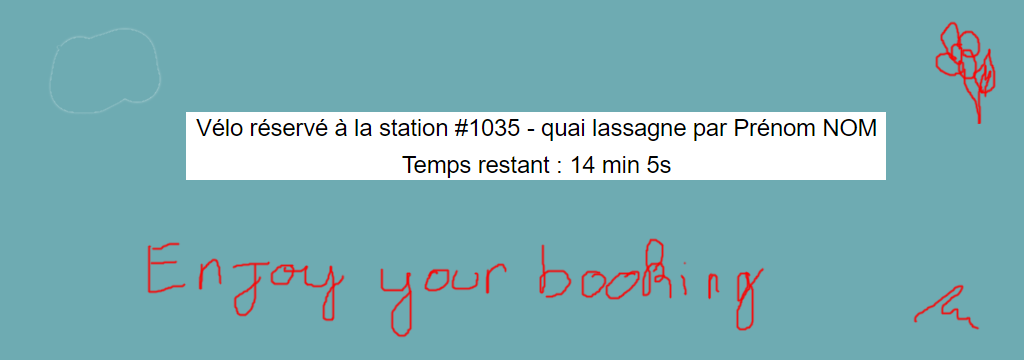
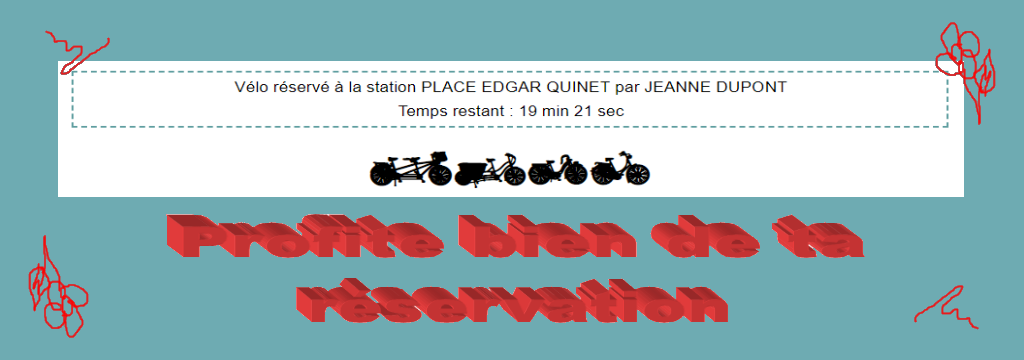
push final

diff --git a/js/MapBikeJCDAndForm.js b/js/MapBikeJCDAndForm.js
@@ -46,12 +46,12 @@ var JCD = {
             '            <p id="nbBikesP">\n' +
             '                \n' +
             '            </p>\n' +
-            '            <p class="input">\n' +
-            '                <label for="name">Nom :</label>\n' +
+            '            <p class="inputP" id="inputData1">\n' +
+            '                <label for="name">Nom&nbsp:</label>\n' +
             '                <input type="text" name="name" id="nameInput" placeholder="nom" value="nom" autofocus required>\n' +
             '            </p>\n' +
-            '            <p class="input">\n' +
-            '                <label for="firstName">Prénom :</label>\n' +
+            '            <p class="inputP" id="inputData2">\n' +
+            '                <label for="firstName">Prénom&nbsp:</label>\n' +
             '                <input type="text" name="firstName" id="firstNameInput" placeholder="prénom" value="prénom" required>\n' +
             '            </p>\n' +
             '            <input id="submitForm" type="submit" value="Réserver" />\n' +
@@ -61,7 +61,6 @@ var JCD = {
             '    </div>';
         jcdThis.createButtonConfirm();
     },
-
     createButtonConfirm: function () {
         var buttonConfirm = document.createElement("input");
         buttonConfirm.type = "submit";
@@ -148,25 +147,38 @@ var JCD = {
             jcdThis.divForm.style.display = "block";
         jcdThis.first = true;
         jcdThis.currentStation = station;
-        statusP.textContent = station.status;
+        statusP.textContent = station.status === "OPEN" ? "STATION OUVERTE": "STATION FERMEE";
         statusP.style.color = station.status === "OPEN" ? "green" : "red";
         nameP.textContent = station.name;
         addressP.textContent = "Adresse : " + station.address;
-        nbStandsP.textContent = station.nbBikesStands > 1 ? station.nbBikesStands + " places" : station.nbBikesStands + "place" ;
+        nbStandsP.textContent = station.nbBikesStands > 1 ? "Capacité : " + station.nbBikesStands + " places" : "Capacité : " + station.nbBikesStands + "place" ;
         nbBikesP.textContent = station.availableBikes > 1 ? station.availableBikes + " vélos disponibles" : station.availableBikes + " vélo disponible";
         nbBikesP.style.color = station.availableBikes > 0 ? "green" : "orange";
         jcdThis.resizeWindow();
+        if (jcdThis.currentStation.status === "OPEN" && jcdThis.currentStation.availableBikes > 0) {
+            submitForm.style.display ="block";
+            inputData1.style.display = "block";
+            inputData2.style.display = "block";
+        }
+        else {
+            nbBikesP.textContent += "\nréservation impossible :'(";
+            submitForm.style.display = "none";
+            inputData1.style.display = "none";
+            inputData2.style.display = "none";
+            jcdThis.canvas.canvasElt.style.display = "none";
+            buttonConfirm.style.display = "none";
+            submitForm.style.display = "none";
+        }
     },
     clickOnSubmit: function (event) {
         event.preventDefault();
-        console.log("CLISKC CLISCK = " + this.id + "!!!!!");
         if (jcdThis.currentStation.status === "OPEN" && jcdThis.currentStation.availableBikes > 0) {
             jcdThis.canvas.canvasElt.style.display = "block";
             buttonConfirm.style.display = "block";
             submitForm.style.display = "none";
         }
         else {
-            alert("Réservation à cette station impossible, please choose an other\nSTATUS = " + jcdThis.currentStation.status + ", pas de vélo disponible" );
+            alert("Réservation à cette station impossible, merci d'an choisir une autre de couleur verte" );
         }
     },
     clickOnSubmitSecond: function (event) {
@@ -178,7 +190,6 @@ var JCD = {
         jcdThis.canvas.canvasElt.style.display = "none";
         buttonConfirm.style.display = "none";
         jcdThis.displayBooking();
-
     },
     bookingInfo: function() {
         jcdThis.bookingStation = jcdThis.currentStation;
@@ -207,8 +218,11 @@ var JCD = {
         time -= 1;
         sessionStorage.setItem('timeToBooking', time);
         if (time > 0) {
-            bookingText1.textContent = "Vélo réservé à la station " + sessionStorage.getItem('nameStation') + " par " + localStorage.getItem('clientFirstName') + " " + localStorage.getItem('clientName');
-            bookingText2.textContent = "Temps restant : " + Math.trunc(time / 60) + " min " + time % 60 + "s";
+            addSecond = (time%60) < 10 ? "0"+(time%60):(time%60);
+            bookingText1.textContent = "Vélo réservé à la station " + /-\s(.+)/gm.exec(sessionStorage.getItem('nameStation'))[1].toUpperCase()
+                + " par " + localStorage.getItem('clientFirstName').toUpperCase()
+                + " " + localStorage.getItem('clientName').toUpperCase();
+            bookingText2.textContent = "Temps restant : " + Math.trunc(time / 60) + " min " + addSecond + " sec";
         }
         else {
             jcdThis.cancelPreviousBooking();

diff --git a/css/style.css b/css/style.css
@@ -6,11 +6,12 @@
 
 body {
     font-family: "Arial", serif;
-    font-size: calc(12px + 0.6vw);
+    font-size: calc(14px + 0.3vw);
+    text-align: left;
 }
 form input {
     font-family: "Arial", serif;
-    font-size: calc(12px + 0.6vw);
+    font-size: calc(14px + 0.3vw);
 }
 
 h1 {
@@ -43,9 +44,9 @@ h1 {
     position:relative;
     margin: auto;
     width: 80%;
-    border: 1px yellow solid;
+    border: 1px cadetblue solid;
 }
-#figureSlider, #imgSlider, #figcaptionSlider {
+#figureSlider, #imgSlider{
     margin:0;
     padding: 0;
     width: 100%;
@@ -75,13 +76,14 @@ figcaption {
     text-align: center;
     width: 100%;
     background-color: aliceblue;
+    margin: 10px auto 10px auto;
 }
 /*
     =========================== 2nd part ================================
  */
 #part2 {
     width: 82%;
-    margin: auto;
+    margin: 10px auto;
     display: flex;
     flex-direction: row;
     justify-content: space-between;
@@ -105,35 +107,23 @@ figcaption {
 }
 #divForm fieldset {
     border-radius: 10px;
+    min-height: 480px;
     display: flex;
     flex-direction: column;
-    justify-content: center;
-    align-items: center;
-}
-p {
-    margin : 10px auto 8px auto;
-}
-.input {
-    display : flex;
-    flex-direction: row;
     justify-content: start;
-    align-content: center;
+    align-content: start;
+}
+p, .input, #submitForm, #buttonConfirm, #c {
+    margin : 6px auto 6px 2px;
 }
 
-.input label {
-    width: calc(100px + 0.6vw);
-}
-.input input {
-    width: 80%;
-}
-#réserver {
-    text-align: center;
-    margin:auto;
-}
 /*
  ===================== CANVAS =====================================
  */
 canvas { border: 1px solid #ccc;}
 #finalText {
     text-align: center;
+    border: 2px cadetblue dashed;
+    width: 80%;
+    margin: auto;
 }

diff --git a/js/main.js b/js/main.js
@@ -1,12 +1,4 @@
-"use strict";/*
-console.log("Hello_test");
-window.addEventListener("beforeunload", function (e) {
-    //AJOUTER UNE CONDITION : SI IL RESTE UNE RESERVATION : RISQUE DE PERTE
-    // prompt("test");
-    var message = "On est bien ici !";
-    e.returnValue = message; // Provoque une demande de confirmation (standard)
-    return message; // Provoque une demande de confirmation (certains navigateurs)
-});*/
+"use strict";
 /*
 ====================== INTEGRATION DU SLIDER =====================
  */
@@ -15,7 +7,7 @@ window.addEventListener("beforeunload", function (e) {
 var dataSLider = [{src:"./img/slide1.png", alt:"Etape 1 du fonctionnement du site", description:"Choisissez votre station de vélo"},
     {src:"./img/slide2.png", alt:"Etape 2 du fonctionnement du site", description:"Entrez vos nom et prénom puis cliquez sur 'réserver'"},
     {src:"./img/slide3.png", alt:"Etape 3 du fonctionnement du site", description:"Signer dans le champs libre puis confirmez la réservation "},
-    {src:"./img/slide4.png", alt:"Etape 4 du fonctionnement du site", description:"Profitez bien de votre vélo, le temps de réservation restant est indiqué"}];
+    {src:"./img/slide4.png", alt:"Etape 4 du fonctionnement du site", description:"Profitez bien de votre vélo, le temps restant pour le récupérer est indiqué"}];
 
 //Création du slider
 var slider = Object.create(Slider);
@@ -25,8 +17,3 @@ slider.init(dataSLider, "slider");
  */
 var apiJCD = Object.create(JCD);
 apiJCD.init("Lyon", "part2", "canvas");
-
-/*
-================================ END MAIN SCRIPT ================================
- */
-console.log("=====END=====");

diff --git a/js/Slider.js b/js/Slider.js
@@ -19,7 +19,7 @@ var Slider = {
             '    <img id="arrowLeft" class="slider" src="./img/arrowLeft.png" alt="Une flêche vers la gauche">\n' +
             '    <figure id="figureSlider" class ="slider">\n' +
             '        <img id="imgSlider" class="slider" src="img/slide1.png" alt="slider description fonctionnement de la page">\n' +
-            '        <figcaption id="figcaptionSlider">Essaie premiere image</figcaption>\n' +
+            '        <figcaption id="figcaptionSlider"></figcaption>\n' +
             '    </figure>\n' +
             '    <img id="arrowRight" class="slider" src="./img/arrowRight.png" alt="Une flêche vers la droite">\n' +
             '    <img id="pauseButton" class="slider" src="./img/pauseButton.png" alt="Un bouton pause">\n' +
@@ -30,7 +30,6 @@ var Slider = {
     addSlide: function(src, alt, description) {
         var slide = Object.create(Slide);
         slide.init(src, alt, description);
-        slide.describe();
         othis.slider.push(slide);
       },
 
@@ -72,14 +71,12 @@ var Slider = {
         playButton.style.display = "none";
         pauseButton.style.display = "block";
         othis.intervalAnimSlider = setInterval('othis.slideAfter()', othis.delay);
-        console.log("appel à After démarré");
     },
     stopAnim: function() { //arret de l'animation auto
         othis.animStatus = false;
         pauseButton.style.display = "none";
         clearInterval(othis.intervalAnimSlider);
         playButton.style.display = "block";
-        console.log("animation stoppé");
     },
 
     //ANIMATION PROGRESSIVE DES SLIDES AU CHANGEMENT DE SLIDE

diff --git a/js/Canvas.js b/js/Canvas.js
@@ -10,6 +10,7 @@ var Canvas = {
         cthis.imagePencil.src = "./img/pencil.png";;
         cthis.isDrawing = false;
         cthis.eventCanvas();
+        //document.body.onload = function (){cthis.startUp();};
     },
     addCanvasInDIv: function (canvasDivId) {
         var canvasElt = document.createElement("canvas");
@@ -37,5 +38,14 @@ var Canvas = {
     },
     canvasDrawStop: function () {
         cthis.isDrawing = false;
+    },
+    //GESTION TOUCH SUR MOBILE
+    startUp: function() {
+        console.log("startevent ===");
+        cthis.canvasElt.addEventListener("touchstart", cthis.handleStart, false);
+        cthis.canvasElt.addEventListener("touchmove", cthis.handleMove, false);
+        cthis.canvasElt.addEventListener("touchend", cthis.handleEnd, false);
+        cthis.canvasElt.addEventListener("touchleave", cthis.handleEnd, false);
+        cthis.canvasElt.addEventListener("touchcancel", cthis.handleCancel, false);
     }
 };

diff --git a/css/little_screen.css b/css/little_screen.css
@@ -24,26 +24,14 @@ body, p {
     width: 100%;
 }
 #divForm fieldset {
+    min-height: 300px;
     border-radius: 10px;
     display: flex;
     flex-direction: column;
-    justify-content: center;
-    align-items: center;
-}
-.input {
-    display : flex;
-    flex-direction: row;
     justify-content: start;
-    align-content: center;
+    align-items: start;
 }
+#finalText {
+     width: 100%;
+ }
 
-.input label {
-    width: 20%;
-}
-.input input {
-    width: 80%;
-}
-#réserver {
-    text-align: center;
-    margin:auto;
-}

diff --git a/js/ajax.js b/js/ajax.js
@@ -1,12 +1,8 @@
 function ajaxGet(url, callback) {
     var req = new XMLHttpRequest();
     req.open("GET", url);
-    console.log("test Request : " + req.status);
     req.addEventListener("load", function () {
-
-        console.log("test Request 2 : " + req.status);
         if (req.status >= 200 && req.status < 400) {
-            // Appelle la fonction callback en lui passant la réponse de la requête
             JSON.stringify(req.responseText);
             callback(JSON.parse(req.responseText));
         } else {

diff --git a/index.html b/index.html
@@ -21,7 +21,6 @@
 <div id="finalText">
 </div>
 <h1>VELO</h1>
-</div>
 <script type="text/javascript" src="js/Canvas.js"></script>
 <script type="text/javascript" src="js/ajax.js"></script>
 <script type="text/javascript" src="js/BikeStation.js"></script>
